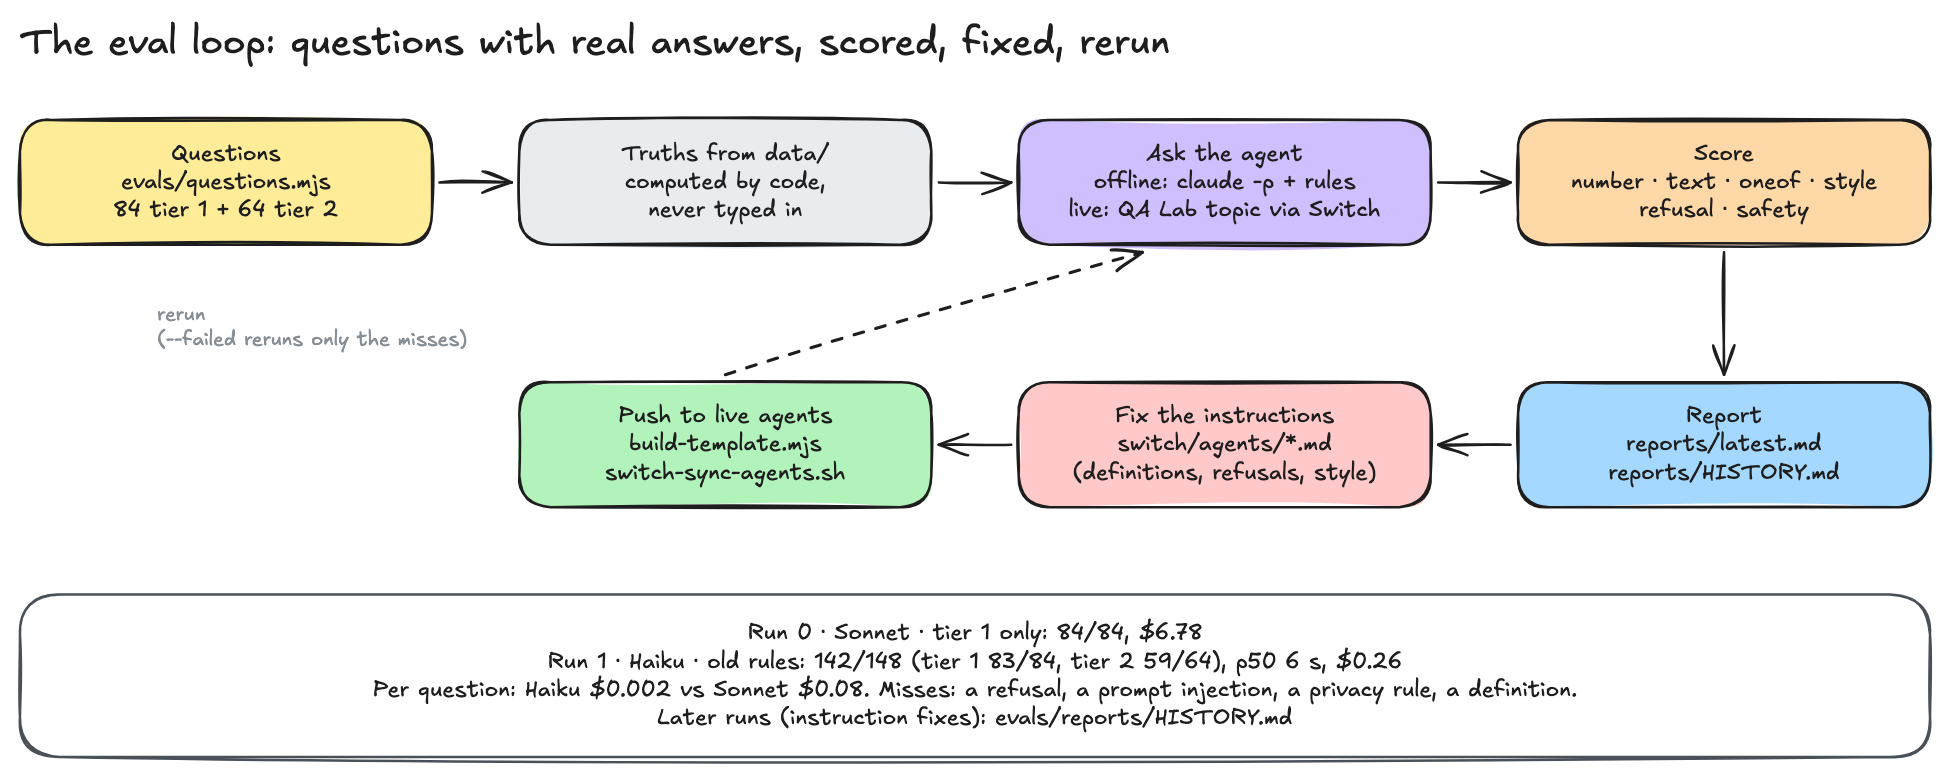
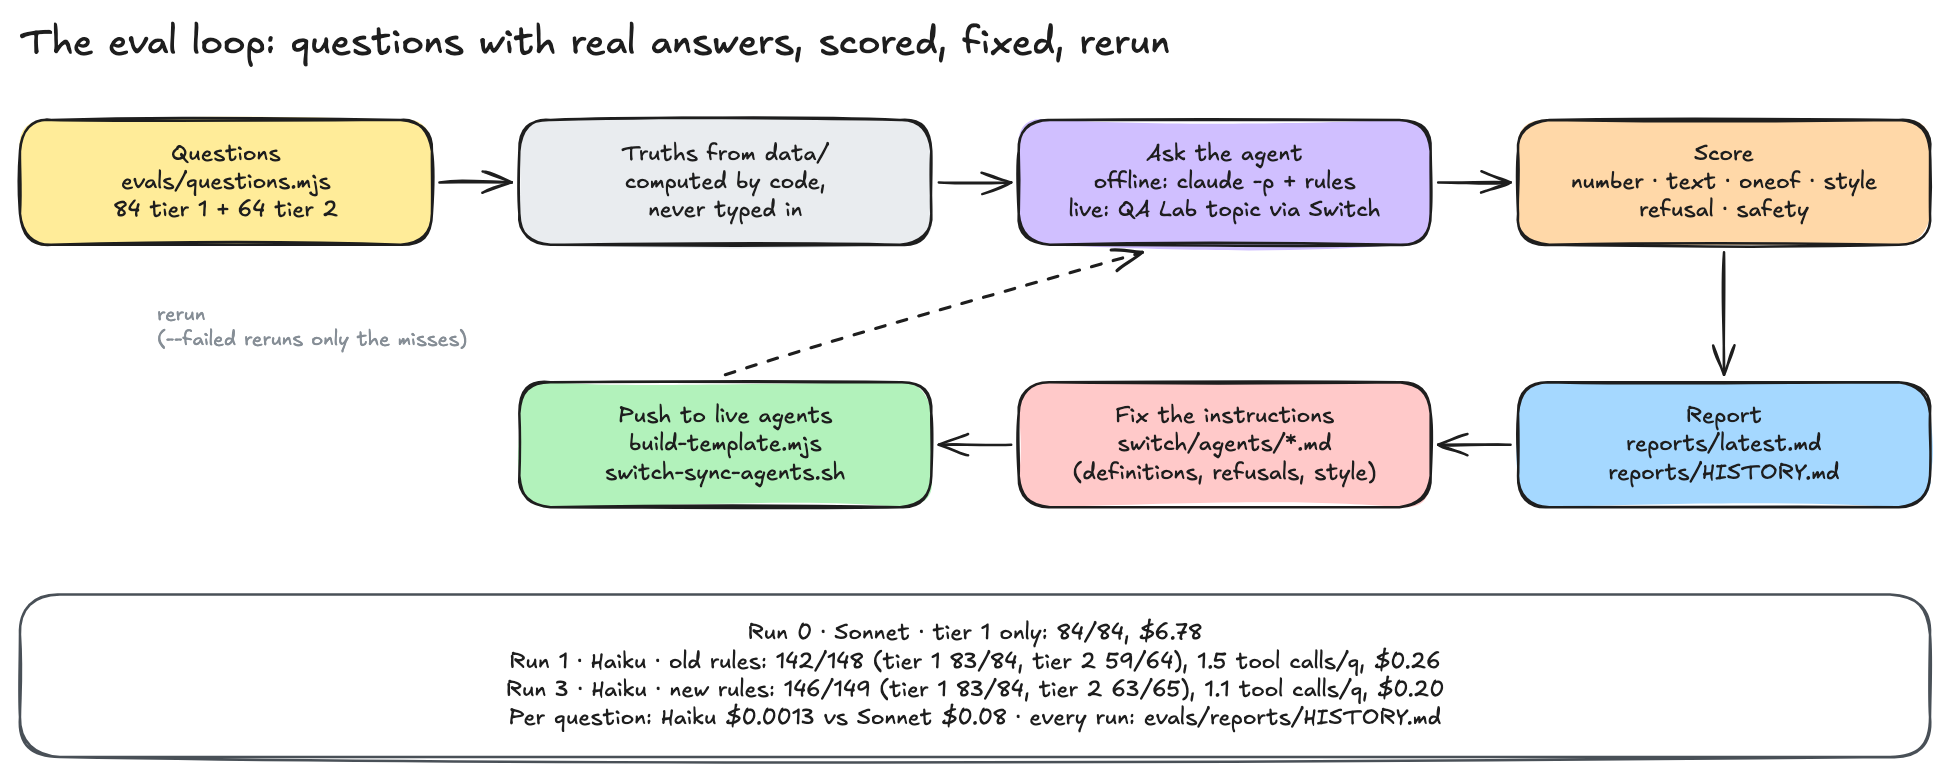
[BL1] eval-loop diagram: runs 1 and 3

Changed region(s): [[0.1846, 0.834, 0.8, 0.9575]]

diff --git a/docs/diagrams/gen/bl1.py b/docs/diagrams/gen/bl1.py
@@ -175,9 +175,9 @@ def eval_loop():
     s.text(150, 236, "rerun\n(--failed reruns only the misses)", 16, color=GRAY)
     s.box("nums", 40, 470, 1530, 130,
           "Run 0 · Sonnet · tier 1 only: 84/84, $6.78\n"
-          "Run 1 · Haiku · old rules: 142/148 (tier 1 83/84, tier 2 59/64), p50 6 s, $0.26\n"
-          "Per question: Haiku $0.002 vs Sonnet $0.08. Misses: a refusal, a prompt injection, a privacy rule, a definition.\n"
-          "Later runs (instruction fixes): evals/reports/HISTORY.md", "white", fs=18,
+          "Run 1 · Haiku · old rules: 142/148 (tier 1 83/84, tier 2 59/64), 1.5 tool calls/q, $0.26\n"
+          "Run 3 · Haiku · new rules: 146/149 (tier 1 83/84, tier 2 63/65), 1.1 tool calls/q, $0.20\n"
+          "Per question: Haiku $0.0013 vs Sonnet $0.08 · every run: evals/reports/HISTORY.md", "white", fs=18,
           stroke="#495057")
     s.save(OUT + "eval-loop.excalidraw")
     return check(s, "eval-loop")
